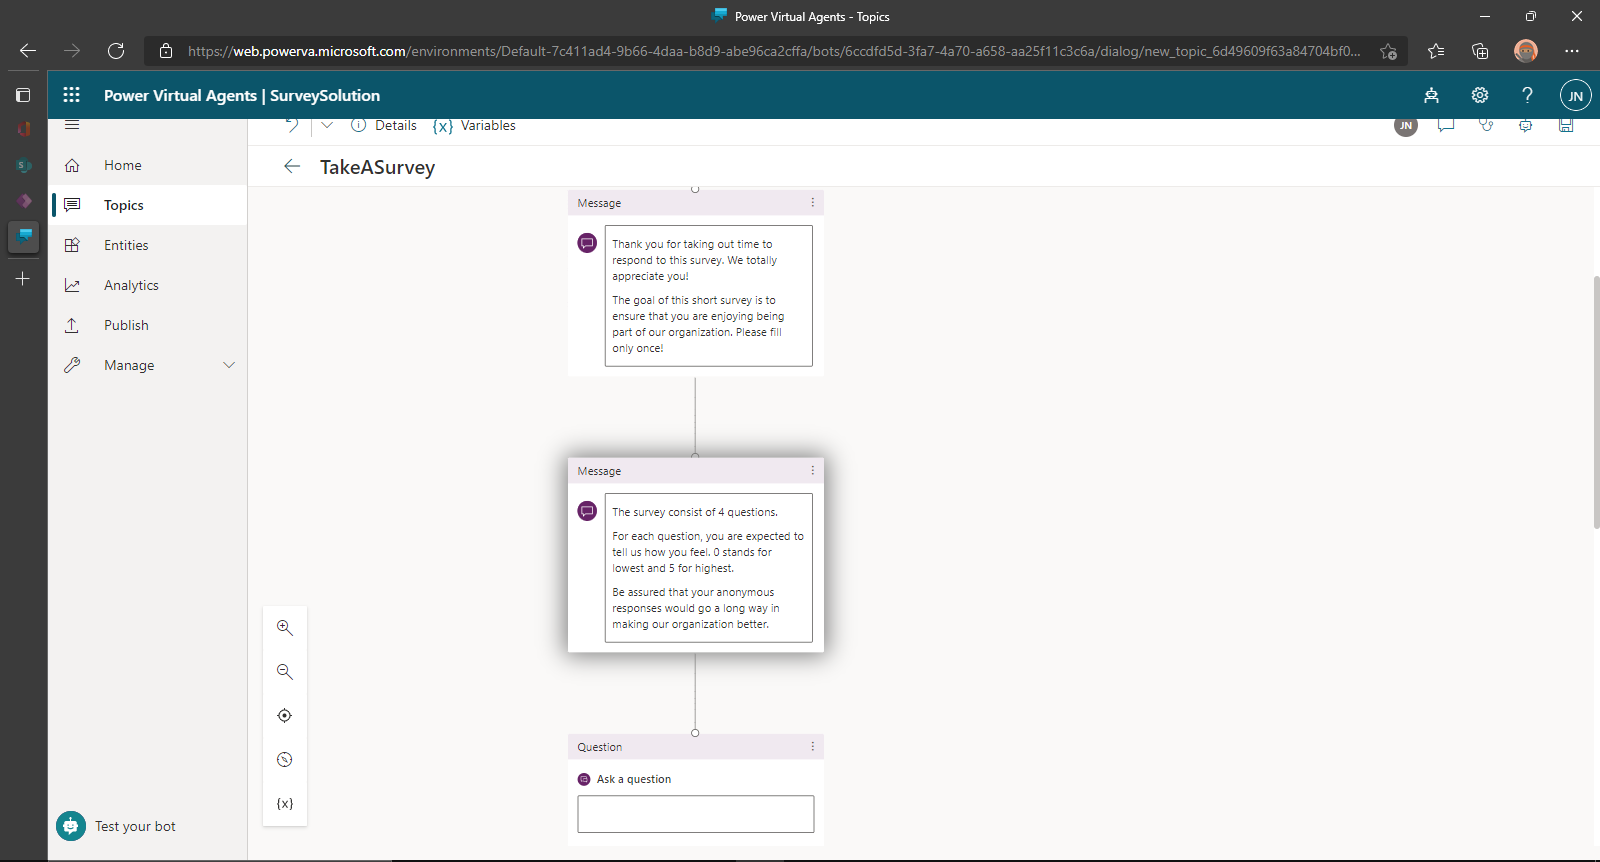
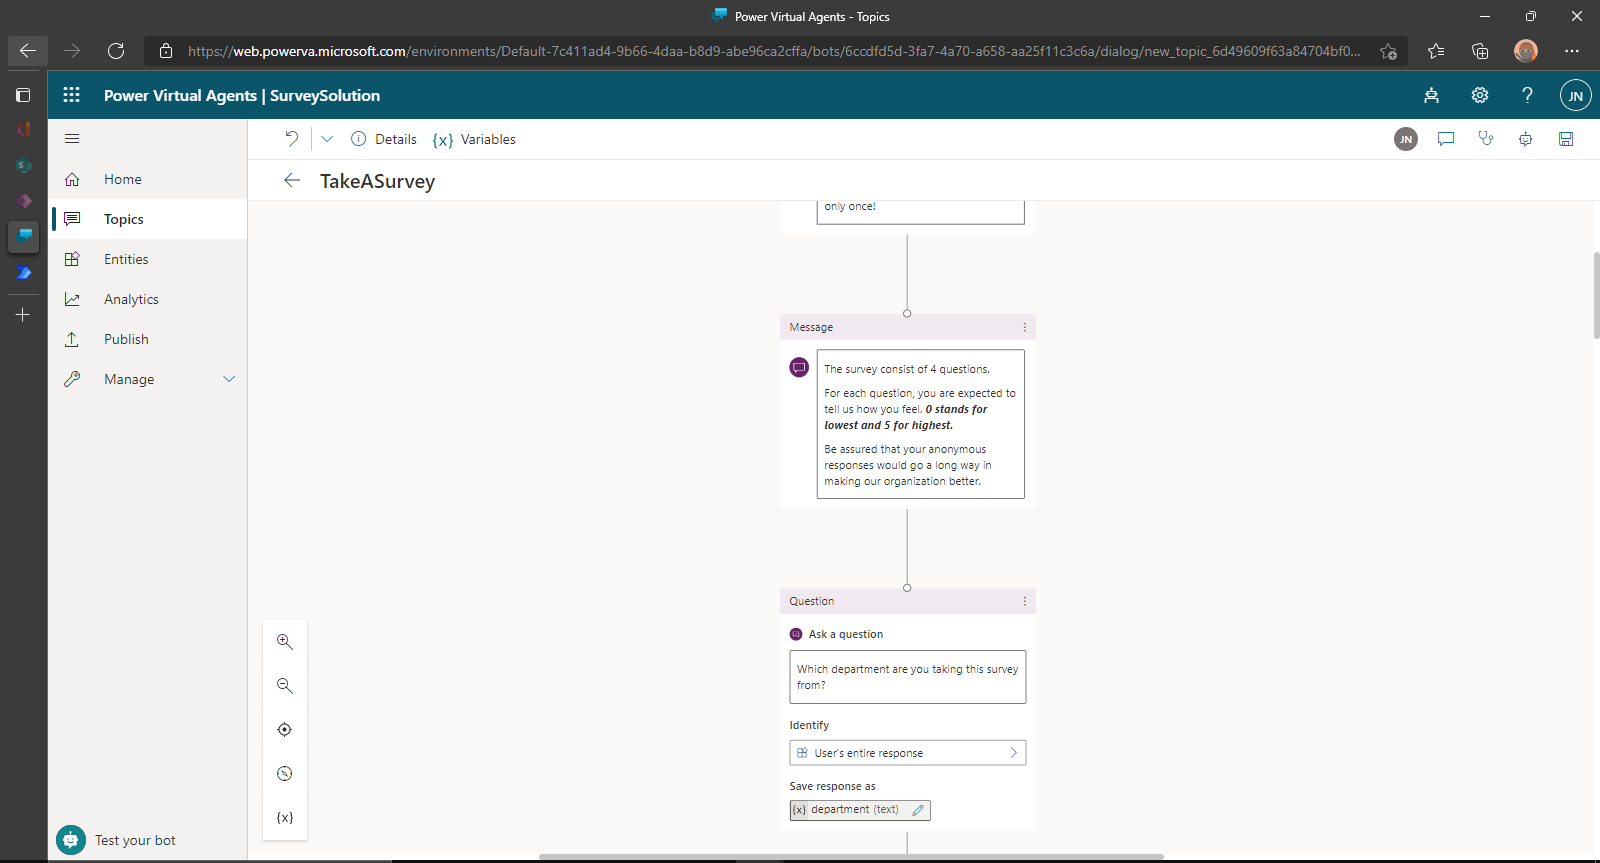
Creating a Bot with PVA

diff --git a/Power Virtual Agents Survey Solution/README.md b/Power Virtual Agents Survey Solution/README.md
@@ -46,21 +46,28 @@ For each question, you are expected to tell us how you feel. 0 stands for lowest
 Be assured that your anonymous responses would go a long way in making our organization better.
 ```
 
-Next, we would need to add each question and the option. To do so, click on the '+' icon again, but this time we would click on 'Ask a question'. Notice that as you do, a different type of block is added to the flow.
+Before asking our questions, we need to identify which department the employee works at. This detail would go along way in helping us position our organization properly. To add this question, click on the '+' icon again, and this time click on 'Ask a question'. Notice that as you do, a different type of block is added to the flow.
+
+Fill in the details correctly.
+* Ask a question: The question we need an answer to is "Which department are you taking this survey from?", so we would input it in that box.
+* Identity: This is a direct question, so we would pick user's entire response.
+* Save response as: It is important we rename our bot variable for each question, so it's easy to reuse them. Click on the pencil icon and in the column that pops out by the side, change the bot variable name for this question to ***department***. Bot variables are global variables as they are used to store information that do not change from topic to topic.
 
 ![](/Images/powervirtualagents-5.PNG)
 
+Next, we would need to add each question and the options. We repeat the steps above. Click on the '+' icon again, and click on 'Ask a question'.
+
 Fill in the details of the block correctly.
 * Ask a question: Our first question is "Do you feel good about your current work/life balance?", so we would input it in that box.
-* Identity: This is a multiple choice question as participants can select from 0 to 5.
+* Identity: Unlike the question about department, this is a multiple choice question as participants have to select from 0 to 5.
 * Options for user: Input the different options. In our case, it would be 0 to 5.
-* Save response as: It is important we rename our bot variable for each question, so it's easy to reuse them. Click on the pencil icon and in the column that pops out by the side, change the bot variable name for this first question to question1. Bot variables are global variables as they are used to store information that do not change from topic to topic.
+* Save response as: Change the bot variable name for this first question to ***question1***.
 
 Notice that beneath the question block, multiple condition blocks have been added. A separate condition block was created for each option as shown in the image below.
 
 ![](/Images/powervirtualagents-6.PNG)
 
-After collecting the response to that question, the bot is expected to ask the second question. To make this happen, we need to add a new node to one of the conditions. Click on the '+' sign and then 'Ask a question'. Fill in the block correctly. For 'Ask a question', input the next question. 'Identity' and 'Options for user' is the same throughout as above. For 'Save response as', give each question a new variable name - question2 for the second question, question3 for the third question and question4 for the fourth question.
+After collecting the response to that question, the bot is expected to ask the second question. To make this happen, we need to add a new node to one of the conditions. Click on the '+' sign and then 'Ask a question'. Fill in the block correctly. For 'Ask a question', input the next question. 'Identity' and 'Options for user' is the same throughout as above. For 'Save response as', give each question a new variable name - ***question2*** for the second question, *question3* for the third question and question4 for the fourth question.
 
 Now we need to connect all condition blocks earlier to the second question. We do this so that whatever the response to the first question is, the second question would still be asked. To do this, click on the '+' sign and instead of adding a node, click on the small circle and connect to the second question block. Repeat this process for all conditions. Your flow should look like the image below.
 
@@ -79,4 +86,9 @@ We start off by adding a new node to our bot after the thank you message. Rememb
 
 ![](/Images/powerautomate-1.PNG)
 
-Notice two steps have been added to your Power Automate flow already. The first step 
+Notice that two steps have been automatically added to our Power Automate flow. In the first step, Power Automate is establishing a connection with our Power Virtual Agent bot. We need to add each question the bot would ask or we would need response to as an input. 
+
+To add the questions as inputs, click on '+ Add an input', then 'Text'. Notice that when you do, a new input box is added. Fill in the details correct as shown below:
+* Input: Use the same variable name you assigned to each question in the bot as the name of the input. For example, Question1 for the first question and Question2 for the second question.
+* Please enter your input: Here you would enter each question as input. Ensure you input the questions as arranged on SharePoint and in your Power Virtual Agent bot.
+
